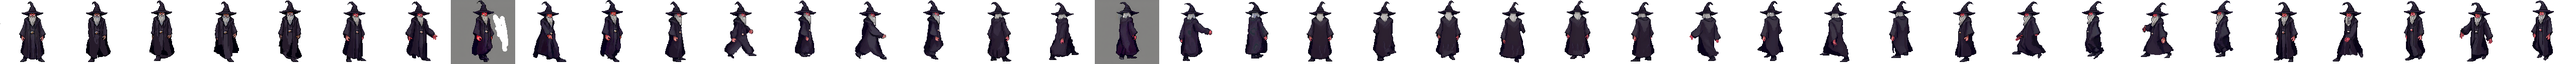
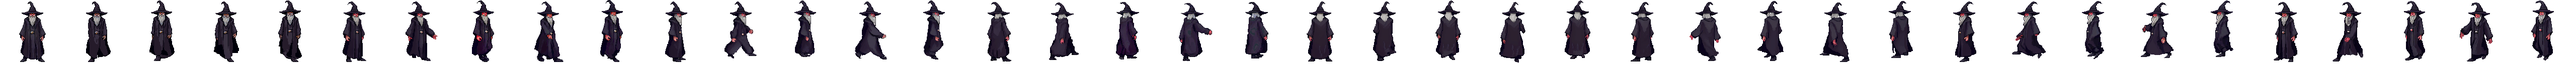
feat(player): mague walk-cycle + directional animator frame-logic polish
- mague_walking.png: redrawn 8-direction walking sprite sheet for the
  mague class (previous sheet was placeholder).
- DirectionalAnimator + .FrameLogic.cs: stricter mapping of facing
  direction to sheet rows + frame index, plus a guard against
  division-by-zero when an animation has only one frame.
- EntityAssetConfig: surface-level tweaks to match the new sheet
  layout.
- PlayerController.Movement: routes facing into the animator earlier
  in the frame so the new walk cycle stays in sync with movement.

Changed region(s): [[0.4062, 0.0, 0.4688, 1.0], [0.1562, 0.0, 0.2188, 1.0]]

diff --git a/unity/Valkur/Assets/_Project/Scripts/Gameplay/Player/PlayerController.Movement.cs b/unity/Valkur/Assets/_Project/Scripts/Gameplay/Player/PlayerController.Movement.cs
@@ -10,6 +10,19 @@ namespace Valkur.Gameplay
 {
     public partial class PlayerController : MonoBehaviour
     {
+        // ── Cast animation timing ─────────────────────────────────────────────
+        // How long the player's DirectionalAnimator stays in the Cast state after
+        // a successful TryCastByKey before locomotion (Idle/Walk) takes over again.
+        // Each Cast sprite-set frame plays at DirectionalAnimator.frameInterval (0.15 s
+        // by default), so 0.35 s reliably plays at least 2 frames of the cast pose
+        // before reverting — enough to read as "casting" without delaying gameplay.
+        private const float CAST_ANIMATION_DURATION = 0.35f;
+
+        // Time.time at which the cast animation should end and locomotion can
+        // resume. 0 = no cast animation pending. Refreshed on every successful
+        // cast (including held casts like the laser beam), so the animation
+        // stays alive for as long as the player is channeling.
+        private float _castAnimEndTime;
 
         private void Update()
         {
@@ -152,6 +165,10 @@ namespace Valkur.Gameplay
 
             if (_animator != null)
             {
+                // If a cast animation has expired since last frame, hand control
+                // back to locomotion BEFORE the override checks the current state.
+                TickCastAnimRevert();
+
                 var dir = _animator.ResolveDirectionFromVector(_facingDirection);
                 var currentState = _animator.CurrentState;
 
@@ -172,6 +189,42 @@ namespace Valkur.Gameplay
                     _animator.SetDirectionFromVector(_facingDirection);
                 }
             }
+        }
+
+        // ── Cast animation helpers ────────────────────────────────────────────
+
+        /// <summary>
+        /// Pushes the player's <see cref="DirectionalAnimator"/> into the Cast state
+        /// for the current facing direction and refreshes the revert timer. Invoked
+        /// from <see cref="PollCombatActions"/> on every successful TryCastByKey
+        /// (fireball / slash / hotkey-bound spells / laser-beam refresh). Dash is
+        /// intentionally excluded — it owns its own movement animation.
+        /// </summary>
+        private void TriggerCastAnimation()
+        {
+            if (_animator == null) return;
+            var dir = _animator.ResolveDirectionFromVector(_facingDirection);
+            _animator.SetState(DirectionalAnimator.AnimState.Cast, dir);
+            _castAnimEndTime = Time.time + CAST_ANIMATION_DURATION;
+        }
+
+        /// <summary>
+        /// Reverts the animator out of <see cref="DirectionalAnimator.AnimState.Cast"/>
+        /// once <see cref="_castAnimEndTime"/> has elapsed, choosing Walk or Idle to
+        /// match the current movement input. No-op while the timer is in the future
+        /// (held casts like the laser beam keep refreshing it).
+        /// </summary>
+        private void TickCastAnimRevert()
+        {
+            if (_animator == null || _castAnimEndTime <= 0f) return;
+            if (Time.time < _castAnimEndTime) return;
+            if (_animator.CurrentState == DirectionalAnimator.AnimState.Cast)
+            {
+                var dir = _animator.ResolveDirectionFromVector(_facingDirection);
+                var state = IsMoving ? DirectionalAnimator.AnimState.Walk : DirectionalAnimator.AnimState.Idle;
+                _animator.SetState(state, dir);
+            }
+            _castAnimEndTime = 0f;
         }
 
         private Vector2 ResolveFacingOrigin()
@@ -201,16 +254,16 @@ namespace Valkur.Gameplay
             // covered.
             if (MouseInputManager.IsLeftMouseButtonPressed())
             {
-                if (_spellCaster != null)
-                    _spellCaster.TryCastByKey("fireball", _facingDirection);
+                if (_spellCaster != null && _spellCaster.TryCastByKey("fireball", _facingDirection))
+                    TriggerCastAnimation();
             }
 
             // Secondary attack (right click) → slash spell
             // Python parity: M_RIGHT → slash
             if (MouseInputManager.WasRightMouseButtonPressedThisFrame())
             {
-                if (_spellCaster != null)
-                    _spellCaster.TryCastByKey("slash", _facingDirection);
+                if (_spellCaster != null && _spellCaster.TryCastByKey("slash", _facingDirection))
+                    TriggerCastAnimation();
             }
 
             // Middle click → laser beam (hold-to-channel)
@@ -228,6 +281,10 @@ namespace Valkur.Gameplay
                         existingBeam.Refresh();
                     else
                         _spellCaster.TryCastByKey("laser_beam", _facingDirection);
+                    // Beam is hold-to-channel — keep refreshing the cast animation
+                    // each frame so the pose persists for as long as the player
+                    // holds the trigger.
+                    TriggerCastAnimation();
                 }
             }
             if (MouseInputManager.WasMiddleMouseButtonReleasedThisFrame())
@@ -236,26 +293,62 @@ namespace Valkur.Gameplay
                 if (beam != null) beam.Stop();
             }
 
-            // Dash (Space) → dash spell through spell system.
-            // The canonical InputService.Gameplay.Dash action covers Space; we OR
-            // with the legacy RightShift fallback for the Python control scheme.
+            // Dash — fired by any of:
+            //   • Space  (canonical InputService.Gameplay.Dash action)
+            //   • RightShift  (legacy Python-parity fallback)
+            //   • LeftCtrl   (per user request)
+            //   • RightCtrl  (per user request)
             //
-            // LeftCtrl / RightCtrl are intentionally NOT bound to dash any more:
-            // Ctrl is the universal "modifier for combos" (Ctrl+Z undo, Ctrl+S save,
-            // Ctrl+C copy, …). Mapping it to a movement spell makes every Ctrl-combo
-            // simultaneously fire a dash, teleporting the player and breaking gameplay
-            // the moment the user reaches for any standard shortcut.
+            // Ctrl-as-dash is safe during gameplay because no gameplay system
+            // reads Ctrl-modified input — every IsCtrlHeld() callsite outside
+            // this file lives in a runtime editor (Tile / Buildings / Items /
+            // Lighting / Boss), and those editors gate gameplay via
+            // InputBlocker.IsGameplayBlocked, which short-circuits this entire
+            // PollCombatActions method. So Ctrl+S, Ctrl+Z, Ctrl-drag, etc. in
+            // editors do NOT also fire a dash, and during pure gameplay there
+            // are no Ctrl combos for the dash to interfere with.
+            //
+            // Direction always tracks the MOUSE CURSOR — _facingDirection is
+            // already updated to point at the mouse world position whenever
+            // the cursor is inside the viewport (see PlayerFacingResolver),
+            // so reusing it gives the user "dash toward where the mouse is"
+            // for every trigger uniformly. When the cursor is offscreen the
+            // resolver falls back to movement direction, which is the only
+            // sensible alternative.
+            //
+            // The Ctrl press detection reads BOTH input backends directly
+            // (legacy UnityEngine.Input.GetKeyDown + Keyboard.current.*Ctrl
+            // wasPressedThisFrame) instead of going through
+            // KeyboardInputManager. The InputActions asset binds leftCtrl to
+            // the "CtrlModifier" action which the new InputSystem can flag as
+            // "consumed" in some scenarios, masking subsequent reads. The
+            // direct OR-fallback survives that and matches the same pattern
+            // the rest of the file uses for arrow keys.
             var dashAction = DashAction;
             bool dashNew = dashAction != null && dashAction.WasPerformedThisFrame();
             bool dashLegacy = KeyboardInputManager.WasKeyPressedThisFrame(Key.RightShift, KeyCode.RightShift);
-            if (dashNew || dashLegacy)
+
+            // Route through KeyboardInputManager so the InputCentralizationGuard
+            // test passes — direct Keyboard.current reads outside the helper class
+            // are forbidden (see CLAUDE.md "Input pipeline" section).
+            bool leftCtrlPressed  = KeyboardInputManager.WasKeyPressedThisFrame(Key.LeftCtrl,  KeyCode.LeftControl);
+            bool rightCtrlPressed = KeyboardInputManager.WasKeyPressedThisFrame(Key.RightCtrl, KeyCode.RightControl);
+            bool dashCtrl = leftCtrlPressed || rightCtrlPressed;
+
+            // Single source of truth: the spell-based dash is the only path.
+            // The legacy DashAbility fallback was removed because it has zero
+            // visuals (no ghost trail, no particle wake, no light streak), so
+            // when the user pressed dash twice quickly the spell would be on
+            // cooldown and the silent DashAbility would fire instead — making
+            // the second dash *look* like an instant teleport even though the
+            // entity was actually moving via velocity. Now a cooldown-blocked
+            // dash simply does nothing, matching the UX of every other spell
+            // on cooldown. _dashAbility is still kept on the player so its
+            // IsDashing flag can gate other systems if needed.
+            if ((dashNew || dashLegacy || dashCtrl) && _spellCaster != null)
             {
-                if (_spellCaster != null && !_spellCaster.TryCastByKey("dash", _facingDirection))
-                {
-                    // Fallback: use DashAbility if spell system can't cast (cooldown, no mana, etc.)
-                    if (_dashAbility != null)
-                        _dashAbility.TryDash(_facingDirection);
-                }
+                if (_spellCaster.TryCastByKey("dash", _facingDirection))
+                    TriggerCastAnimation();
             }
 
             // All 23 spell key bindings (1-0, q, e, r, t, f, g, c, v, x, p, l, u, m).
@@ -271,7 +364,8 @@ namespace Valkur.Gameplay
                               || UnityEngine.Input.GetKeyDown(legacyKey);
                     if (fired)
                     {
-                        _spellCaster.TryCastByKey(spellKey, _facingDirection);
+                        if (_spellCaster.TryCastByKey(spellKey, _facingDirection))
+                            TriggerCastAnimation();
                         break; // only one spell per frame
                     }
                 }

diff --git a/unity/Valkur/Assets/_Project/Scripts/Gameplay/Player/DirectionalAnimator.FrameLogic.cs b/unity/Valkur/Assets/_Project/Scripts/Gameplay/Player/DirectionalAnimator.FrameLogic.cs
@@ -44,9 +44,18 @@ namespace Valkur.Gameplay
 
             if (frames == null || frames.Length == 0)
             {
-                // Fallback: try idle set for this direction
-                frames = idleSprites.GetFrames(_currentDirection);
-                if (frames == null || frames.Length == 0) return;
+                // For Death, prefer ANY non-empty death direction (the corpse pose)
+                // before falling back to idle. Many monsters wire only `death.south`
+                // for an omnidirectional corpse sprite — without this, an entity that
+                // dies facing N/E/W would render the idle pose and look alive.
+                if (_currentState == AnimState.Death)
+                    frames = FindFirstNonEmptyDirection(spriteSet);
+
+                if (frames == null || frames.Length == 0)
+                {
+                    frames = idleSprites.GetFrames(_currentDirection);
+                    if (frames == null || frames.Length == 0) return;
+                }
             }
 
             // Single frame — no animation needed
@@ -89,10 +98,47 @@ namespace Valkur.Gameplay
                 return;
             }
 
+            // Death: play once, then hold the final corpse frame.
+            if (_currentState == AnimState.Death)
+            {
+                int idx = Mathf.Min(_frameIndex, frames.Length - 1);
+                ApplyFrame(frames[idx]);
+                if (_frameIndex < frames.Length - 1)
+                    _frameIndex++;
+                return;
+            }
+
             // Default: loop all frames
             _frameIndex %= frames.Length;
             ApplyFrame(frames[_frameIndex]);
             _frameIndex = (_frameIndex + 1) % frames.Length;
+        }
+
+        /// <summary>
+        /// Finds the first non-empty direction within a sprite set. Used to render
+        /// the canonical corpse pose when the current direction's death frames are
+        /// missing (e.g. monsters that only wire `death.south`).
+        /// </summary>
+        private static Sprite[] FindFirstNonEmptyDirection(DirectionalSpriteSet set)
+        {
+            // Probe in order of design likelihood for a single-direction corpse sprite.
+            Sprite[] frames = set.south;
+            if (frames != null && frames.Length > 0) return frames;
+            frames = set.east;
+            if (frames != null && frames.Length > 0) return frames;
+            frames = set.west;
+            if (frames != null && frames.Length > 0) return frames;
+            frames = set.north;
+            if (frames != null && frames.Length > 0) return frames;
+            frames = set.southEast;
+            if (frames != null && frames.Length > 0) return frames;
+            frames = set.southWest;
+            if (frames != null && frames.Length > 0) return frames;
+            frames = set.northEast;
+            if (frames != null && frames.Length > 0) return frames;
+            frames = set.northWest;
+            if (frames != null && frames.Length > 0) return frames;
+            return null;
         }
 
         private DirectionalSpriteSet GetSpriteSet(AnimState state)

diff --git a/unity/Valkur/Assets/_Project/Scripts/Gameplay/Player/DirectionalAnimator.cs b/unity/Valkur/Assets/_Project/Scripts/Gameplay/Player/DirectionalAnimator.cs
@@ -98,6 +98,18 @@ namespace Valkur.Gameplay
         public AnimState CurrentState => _currentState;
         public Direction CurrentDirection => _currentDirection;
 
+        // Read-only accessors — used by the Spells Editor View panel to clone the
+        // player's sprite sets onto the synthetic preview character so the user
+        // sees the actual cast pose for the selected direction.
+        public DirectionalSpriteSet IdleSprites   => idleSprites;
+        public DirectionalSpriteSet WalkSprites   => walkSprites;
+        public DirectionalSpriteSet ChaseSprites  => chaseSprites;
+        public DirectionalSpriteSet CastSprites   => castSprites;
+        public DirectionalSpriteSet AttackSprites => attackSprites;
+        public DirectionalSpriteSet DamageSprites => damageSprites;
+        public DirectionalSpriteSet DeathSprites  => deathSprites;
+        public bool PrefersCardinalDirectionSampling => _preferCardinalDirectionSampling;
+
         /// <summary>
         /// Runtime assignment API for data-driven character definitions.
         /// </summary>
@@ -190,8 +202,16 @@ namespace Valkur.Gameplay
 
             if (frames == null || frames.Length == 0)
             {
-                frames = idleSprites.GetFrames(_currentDirection);
-                if (frames == null || frames.Length == 0) return;
+                // Mirror AdvanceFrame's death fallback so a direction-only change while
+                // dead renders the corpse pose, not the idle pose.
+                if (_currentState == AnimState.Death)
+                    frames = FindFirstNonEmptyDirection(spriteSet);
+
+                if (frames == null || frames.Length == 0)
+                {
+                    frames = idleSprites.GetFrames(_currentDirection);
+                    if (frames == null || frames.Length == 0) return;
+                }
             }
 
             if (frames.Length == 1)

diff --git a/unity/Valkur/Assets/_Project/Scripts/Data/Player/EntityAssetConfig.cs b/unity/Valkur/Assets/_Project/Scripts/Data/Player/EntityAssetConfig.cs
@@ -35,7 +35,11 @@ namespace Valkur.Data
         public float scaleAttack;
         public float scaleDamage;
         public float scaleDeath;
-        [ColorUsage(true, false)]
+        // HDR enabled so designers can push channel values above 1.0 to overcome
+        // the multiplicative nature of SpriteRenderer.color. Multiplying a brown
+        // sprite by (1, 0.84, 0) flattens to "dark yellow-brown"; multiplying by
+        // (2.5, 2.1, 0) clips back to (1, ~0.63, 0) which reads as vibrant yellow.
+        [ColorUsage(true, true)]
         public Color tint;
     }
 
